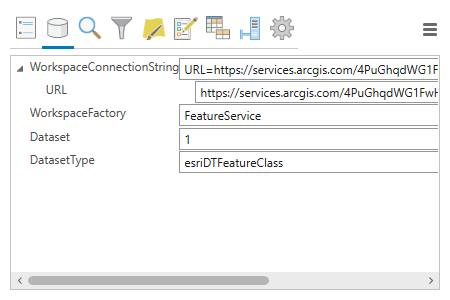
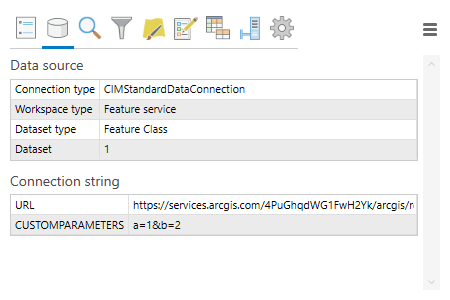
Clean up the source tab

Changed region(s): [[0.0, 0.18, 0.9956, 0.81], [0.0311, 0.9, 0.9644, 0.99]]

diff --git a/src/QuickActions/Views/SourceView.xaml b/src/QuickActions/Views/SourceView.xaml
@@ -6,31 +6,76 @@
     DataContext="{Binding RelativeSource={RelativeSource Mode=Self}}"
 >
     <local:ViewBase.Resources>
-        <BooleanToVisibilityConverter x:Key="BooleanToVisibilityConverter" />
+        <ResourceDictionary>
+            <Style x:Key="DataGridStyle" TargetType="{x:Type DataGrid}" BasedOn="{StaticResource Esri_DataGrid}">
+                <Setter Property="AutoGenerateColumns" Value="False" />
+                <Setter Property="HeadersVisibility" Value="None" />
+                <Setter Property="HorizontalScrollBarVisibility" Value="Disabled" />
+            </Style>
+
+            <Style x:Key="TextBoxStyle" TargetType="{x:Type TextBox}">
+                <Setter Property="IsReadOnly" Value="True" />
+                <Setter Property="BorderBrush" Value="Transparent" />
+                <Setter Property="Background" Value="Transparent" />
+            </Style>
+        </ResourceDictionary>
     </local:ViewBase.Resources>
     
-    <Grid Grid.IsSharedSizeScope="True">
-        <TreeView ItemsSource="{Binding TreeItems}">
-            <TreeView.ItemTemplate>
-                <HierarchicalDataTemplate
-                    DataType="{x:Type local:SourceTreeItem}"
-                    ItemsSource="{Binding Items}"
-                >
-                    <Grid>
-                        <Grid.ColumnDefinitions>
-                            <ColumnDefinition Width="Auto" SharedSizeGroup="Name" />
-                            <ColumnDefinition Width="*" SharedSizeGroup="Value" />
-                        </Grid.ColumnDefinitions>
-                        <TextBlock Text="{Binding Name}" Grid.Column="0" />
-                        <TextBox
-                            Grid.Column="1"
-                            IsReadOnly="True"
-                            Text="{Binding Value}"
-                            Visibility="{Binding HasValue, Converter={StaticResource BooleanToVisibilityConverter}}"
-                        />
-                    </Grid>
-                </HierarchicalDataTemplate>
-            </TreeView.ItemTemplate>
-        </TreeView>
-    </Grid>
+    <ScrollViewer Padding="0,0,5,0">
+        <StackPanel>
+            <TextBlock
+                Style="{DynamicResource Esri_TextBlockDialog}"
+                Text="Data source"
+            />
+            <DataGrid
+                Style="{StaticResource DataGridStyle}"
+                ItemsSource="{Binding CommonItems}"
+                Margin="0,5,0,10"
+            >
+                <DataGrid.Columns>
+                    <DataGridTemplateColumn MaxWidth="200">
+                        <DataGridTemplateColumn.CellTemplate>
+                            <DataTemplate>
+                                <TextBox Style="{StaticResource TextBoxStyle}" Text="{Binding Key, Mode=OneWay}" />
+                            </DataTemplate>
+                        </DataGridTemplateColumn.CellTemplate>
+                    </DataGridTemplateColumn>
+                    <DataGridTemplateColumn Width="*">
+                        <DataGridTemplateColumn.CellTemplate>
+                            <DataTemplate>
+                                <TextBox Style="{StaticResource TextBoxStyle}" Text="{Binding Value, Mode=OneWay}" />
+                            </DataTemplate>
+                        </DataGridTemplateColumn.CellTemplate>
+                    </DataGridTemplateColumn>
+                </DataGrid.Columns>
+            </DataGrid>
+
+            <TextBlock
+                Style="{DynamicResource Esri_TextBlockDialog}"
+                Text="Connection string"
+            />
+            <DataGrid
+                Style="{StaticResource DataGridStyle}"
+                ItemsSource="{Binding ConnectionStringItems}"
+                Margin="0,5,0,10"
+            >
+                <DataGrid.Columns>
+                    <DataGridTemplateColumn MaxWidth="200">
+                        <DataGridTemplateColumn.CellTemplate>
+                            <DataTemplate>
+                                <TextBox Style="{StaticResource TextBoxStyle}" Text="{Binding Key, Mode=OneWay}" />
+                            </DataTemplate>
+                        </DataGridTemplateColumn.CellTemplate>
+                    </DataGridTemplateColumn>
+                    <DataGridTemplateColumn Width="*">
+                        <DataGridTemplateColumn.CellTemplate>
+                            <DataTemplate>
+                                <TextBox Style="{StaticResource TextBoxStyle}" Text="{Binding Value, Mode=OneWay}" />
+                            </DataTemplate>
+                        </DataGridTemplateColumn.CellTemplate>
+                    </DataGridTemplateColumn>
+                </DataGrid.Columns>
+            </DataGrid>
+        </StackPanel>
+    </ScrollViewer>
 </local:ViewBase>

diff --git a/src/QuickActions/Views/SourceView.xaml.cs b/src/QuickActions/Views/SourceView.xaml.cs
@@ -1,18 +1,64 @@
-using System.Collections.Generic;
-using System.Linq;
+using System;
+using System.Collections.Generic;
+using System.IO;
+using System.Reflection;
+using System.Text.RegularExpressions;
 using System.Threading.Tasks;
-using System.Xml;
 using System.Xml.Linq;
 
-using ArcGIS.Desktop.Framework;
+using ArcGIS.Core.CIM;
 using ArcGIS.Desktop.Framework.Threading.Tasks;
-using ArcGIS.Desktop.Internal.Core;
 using ArcGIS.Desktop.Mapping;
 
 namespace QuickActions.Views;
 
 public partial class SourceView : ViewBase
 {
+	readonly static Dictionary<esriDatasetType, string> _datasetTypeDescriptions;
+	readonly static Dictionary<WorkspaceFactory, string> _workspaceFactoryDescriptions;
+
+	static SourceView()
+	{
+		// I don't think ArcGIS Pro SDK includes a way to get the friendly names of these enum values.
+		// However, there should be a ArcGIS.Core.XML file that defines the XML comments related to them.
+		// Use it to build directories for the friendly names.
+
+		_datasetTypeDescriptions = new Dictionary<esriDatasetType, string>();
+		_workspaceFactoryDescriptions = new Dictionary<WorkspaceFactory, string>();
+
+		var appPath = Assembly.GetEntryAssembly().Location;
+		var appDirectory = Path.GetDirectoryName(appPath);
+		var xmlPath = Path.Combine(appDirectory, "ArcGIS.Core.XML");
+
+		if (File.Exists(xmlPath))
+		{
+			var doc = XDocument.Load(xmlPath);
+			var regex = new Regex(@"^F:ArcGIS\.Core\.CIM\.(?<type>esriDatasetType|WorkspaceFactory)\.(?<value>\w+)$", RegexOptions.Compiled);
+
+			foreach (var member in doc.Root.Element("members").Elements("member"))
+			{
+				var memberName = member.Attribute("name").Value;
+				var match = regex.Match(memberName);
+				if (!match.Success) continue;
+
+				var type = match.Groups["type"].Value;
+				var value = match.Groups["value"].Value;
+				var summary = member.Element("summary").Value.Trim().TrimEnd('.');
+
+				if (type == nameof(esriDatasetType))
+				{
+					var enumValue = (esriDatasetType)Enum.Parse(typeof(esriDatasetType), value);
+					_datasetTypeDescriptions[enumValue] = summary;
+				}
+				else if (type == nameof(WorkspaceFactory))
+				{
+					var enumValue = (WorkspaceFactory)Enum.Parse(typeof(WorkspaceFactory), value);
+					_workspaceFactoryDescriptions[enumValue] = summary;
+				}
+			}
+		}
+	}
+
 	public SourceView()
 	{
 		InitializeComponent();
@@ -22,83 +68,80 @@ public partial class SourceView : ViewBase
 	{
 		return QueuedTask.Run(() =>
 		{
-			var connection = MapMember.GetDataConnection();
+			var commonItems = new List<KeyValuePair<string, object>>();
+			var connectionStringItems = new List<KeyValuePair<string, object>>();
 
-			var xml = ArcGIS.Core.Internal.CIM.XmlUtil.ToXml(connection);
-			var doc = XDocument.Parse(xml);
-			TreeItems = BuildNodes(doc.Root);
+			var connection = MapMember.GetDataConnection();
+			var connectionType = connection.GetType();
+			commonItems.Add(new("Connection type", connectionType.Name));
+
+			// The values that will be displayed in the UI are stored in the following properties.
+			// They are defined in many CIMDataConnection subtypes, but unfortunately there's no common base class or interface that defines them.
+			// Instead of listing all types that define these properties, just use reflection to check if they exist.
+
+			if (connectionType.GetProperty("WorkspaceFactory") is PropertyInfo workspaceFactoryProp)
+			{
+				var workspaceFactory = (WorkspaceFactory)workspaceFactoryProp.GetValue(connection);
+				_workspaceFactoryDescriptions.TryGetValue(workspaceFactory, out var workspaceFactoryDescription);
+				commonItems.Add(new("Workspace type", workspaceFactoryDescription ?? workspaceFactory.ToString()));
+			}
+
+			if (connectionType.GetProperty("DatasetType") is PropertyInfo datasetTypeProp)
+			{
+				var datasetType = (esriDatasetType)datasetTypeProp.GetValue(connection);
+				_datasetTypeDescriptions.TryGetValue(datasetType, out var datasetTypeDescription);
+				commonItems.Add(new("Dataset type", datasetTypeDescription ?? datasetType.ToString()));
+			}
+
+			if (connectionType.GetProperty("Dataset") is PropertyInfo datasetProp)
+			{
+				var dataset = (string)datasetProp.GetValue(connection);
+				commonItems.Add(new("Dataset", dataset));
+			}
+
+			if (connectionType.GetProperty("URL") is PropertyInfo urlProp)
+			{
+				var url = (string)urlProp.GetValue(connection);
+				commonItems.Add(new("URL", url));
+			}
+
+			if (connectionType.GetProperty("WorkspaceConnectionString") is PropertyInfo connectionStringProp)
+			{
+				var connectionString = (string)connectionStringProp.GetValue(connection);
+				foreach (var connectionParameter in connectionString.Split(';'))
+				{
+					var separatorIndex = connectionParameter.IndexOf('=');
+					var parameterName = connectionParameter[..separatorIndex];
+					var parameterValue = connectionParameter[(separatorIndex + 1)..];
+
+					connectionStringItems.Add(new(parameterName, parameterValue));
+				}
+			}
+
+			CommonItems = commonItems;
+			ConnectionStringItems = connectionStringItems;
 		});
 	}
 
-	IEnumerable<SourceTreeItem> _treeItems;
-	public IEnumerable<SourceTreeItem> TreeItems
+	IReadOnlyCollection<KeyValuePair<string, object>> _commonItems;
+	public IReadOnlyCollection<KeyValuePair<string, object>> CommonItems
 	{
-		get => _treeItems;
+		get => _commonItems;
 		set
 		{
-			_treeItems = value;
+			_commonItems = value;
 			NotifyPropertyChanged();
 		}
 	}
 
-	IEnumerable<SourceTreeItem> BuildNodes(XElement element)
+	IReadOnlyCollection<KeyValuePair<string, object>> _connectionStringItems;
+	public IReadOnlyCollection<KeyValuePair<string, object>> ConnectionStringItems
 	{
-		foreach (var node in element.Nodes())
+		get => _connectionStringItems;
+		set
 		{
-			if (node.NodeType == XmlNodeType.Text)
-			{
-				yield return new() { Value = ((XText)node).Value };
-			}
-			else if (node.NodeType == XmlNodeType.Element)
-			{
-				var childElement = (XElement)node;
-				var childNodes = childElement.Nodes().ToList();
-				if (childNodes.Count == 1 && childNodes[0].NodeType == XmlNodeType.Text)
-				{
-					var subItems = new List<SourceTreeItem>();
-					if (childElement.Name.LocalName == "WorkspaceConnectionString")
-					{
-						var connectionString = childElement.Value;
-						if (childElement.Value != null)
-						{
-							foreach (var connectionParameter in connectionString.Split(';'))
-							{
-								var separatorIndex = connectionParameter.IndexOf('=');
-								var parameterName = connectionParameter[..separatorIndex];
-								var parameterValue = connectionParameter[(separatorIndex + 1)..];
-								subItems.Add(new()
-								{
-									Name = parameterName,
-									Value = parameterValue
-								});
-							}
-						}
-					}
-
-					yield return new()
-					{
-						Name = childElement.Name.LocalName,
-						Value = childElement.Value,
-						Items = subItems
-					};
-				}
-				else
-				{
-					yield return new()
-					{
-						Name = childElement.Name.LocalName,
-						Items = BuildNodes(childElement)
-					};
-				}
-			}
+			_connectionStringItems = value;
+			NotifyPropertyChanged();
 		}
 	}
-}
-
-public class SourceTreeItem
-{
-	public string Name { get; init; }
-	public object Value { get; init; }
-	public IEnumerable<SourceTreeItem> Items { get; init; }
-	public bool HasValue => Value != null;
 }

diff --git a/README.md b/README.md
@@ -18,8 +18,6 @@ Change visibility, selectability, editability and other attributes of the layer 
 
 Check the data source of the layer.
 
-This one is still very much a work in process. I'd like to embed the layer source property page here, but that doesn't appear to be possible without some heavy reflection to access internal members. Currently, it displays the data connection XML document in a tree view, but that isn't nearly as convenient as the property page.
-
 ### Find
 
 ![Find](docs/tabs-find-1.png)
